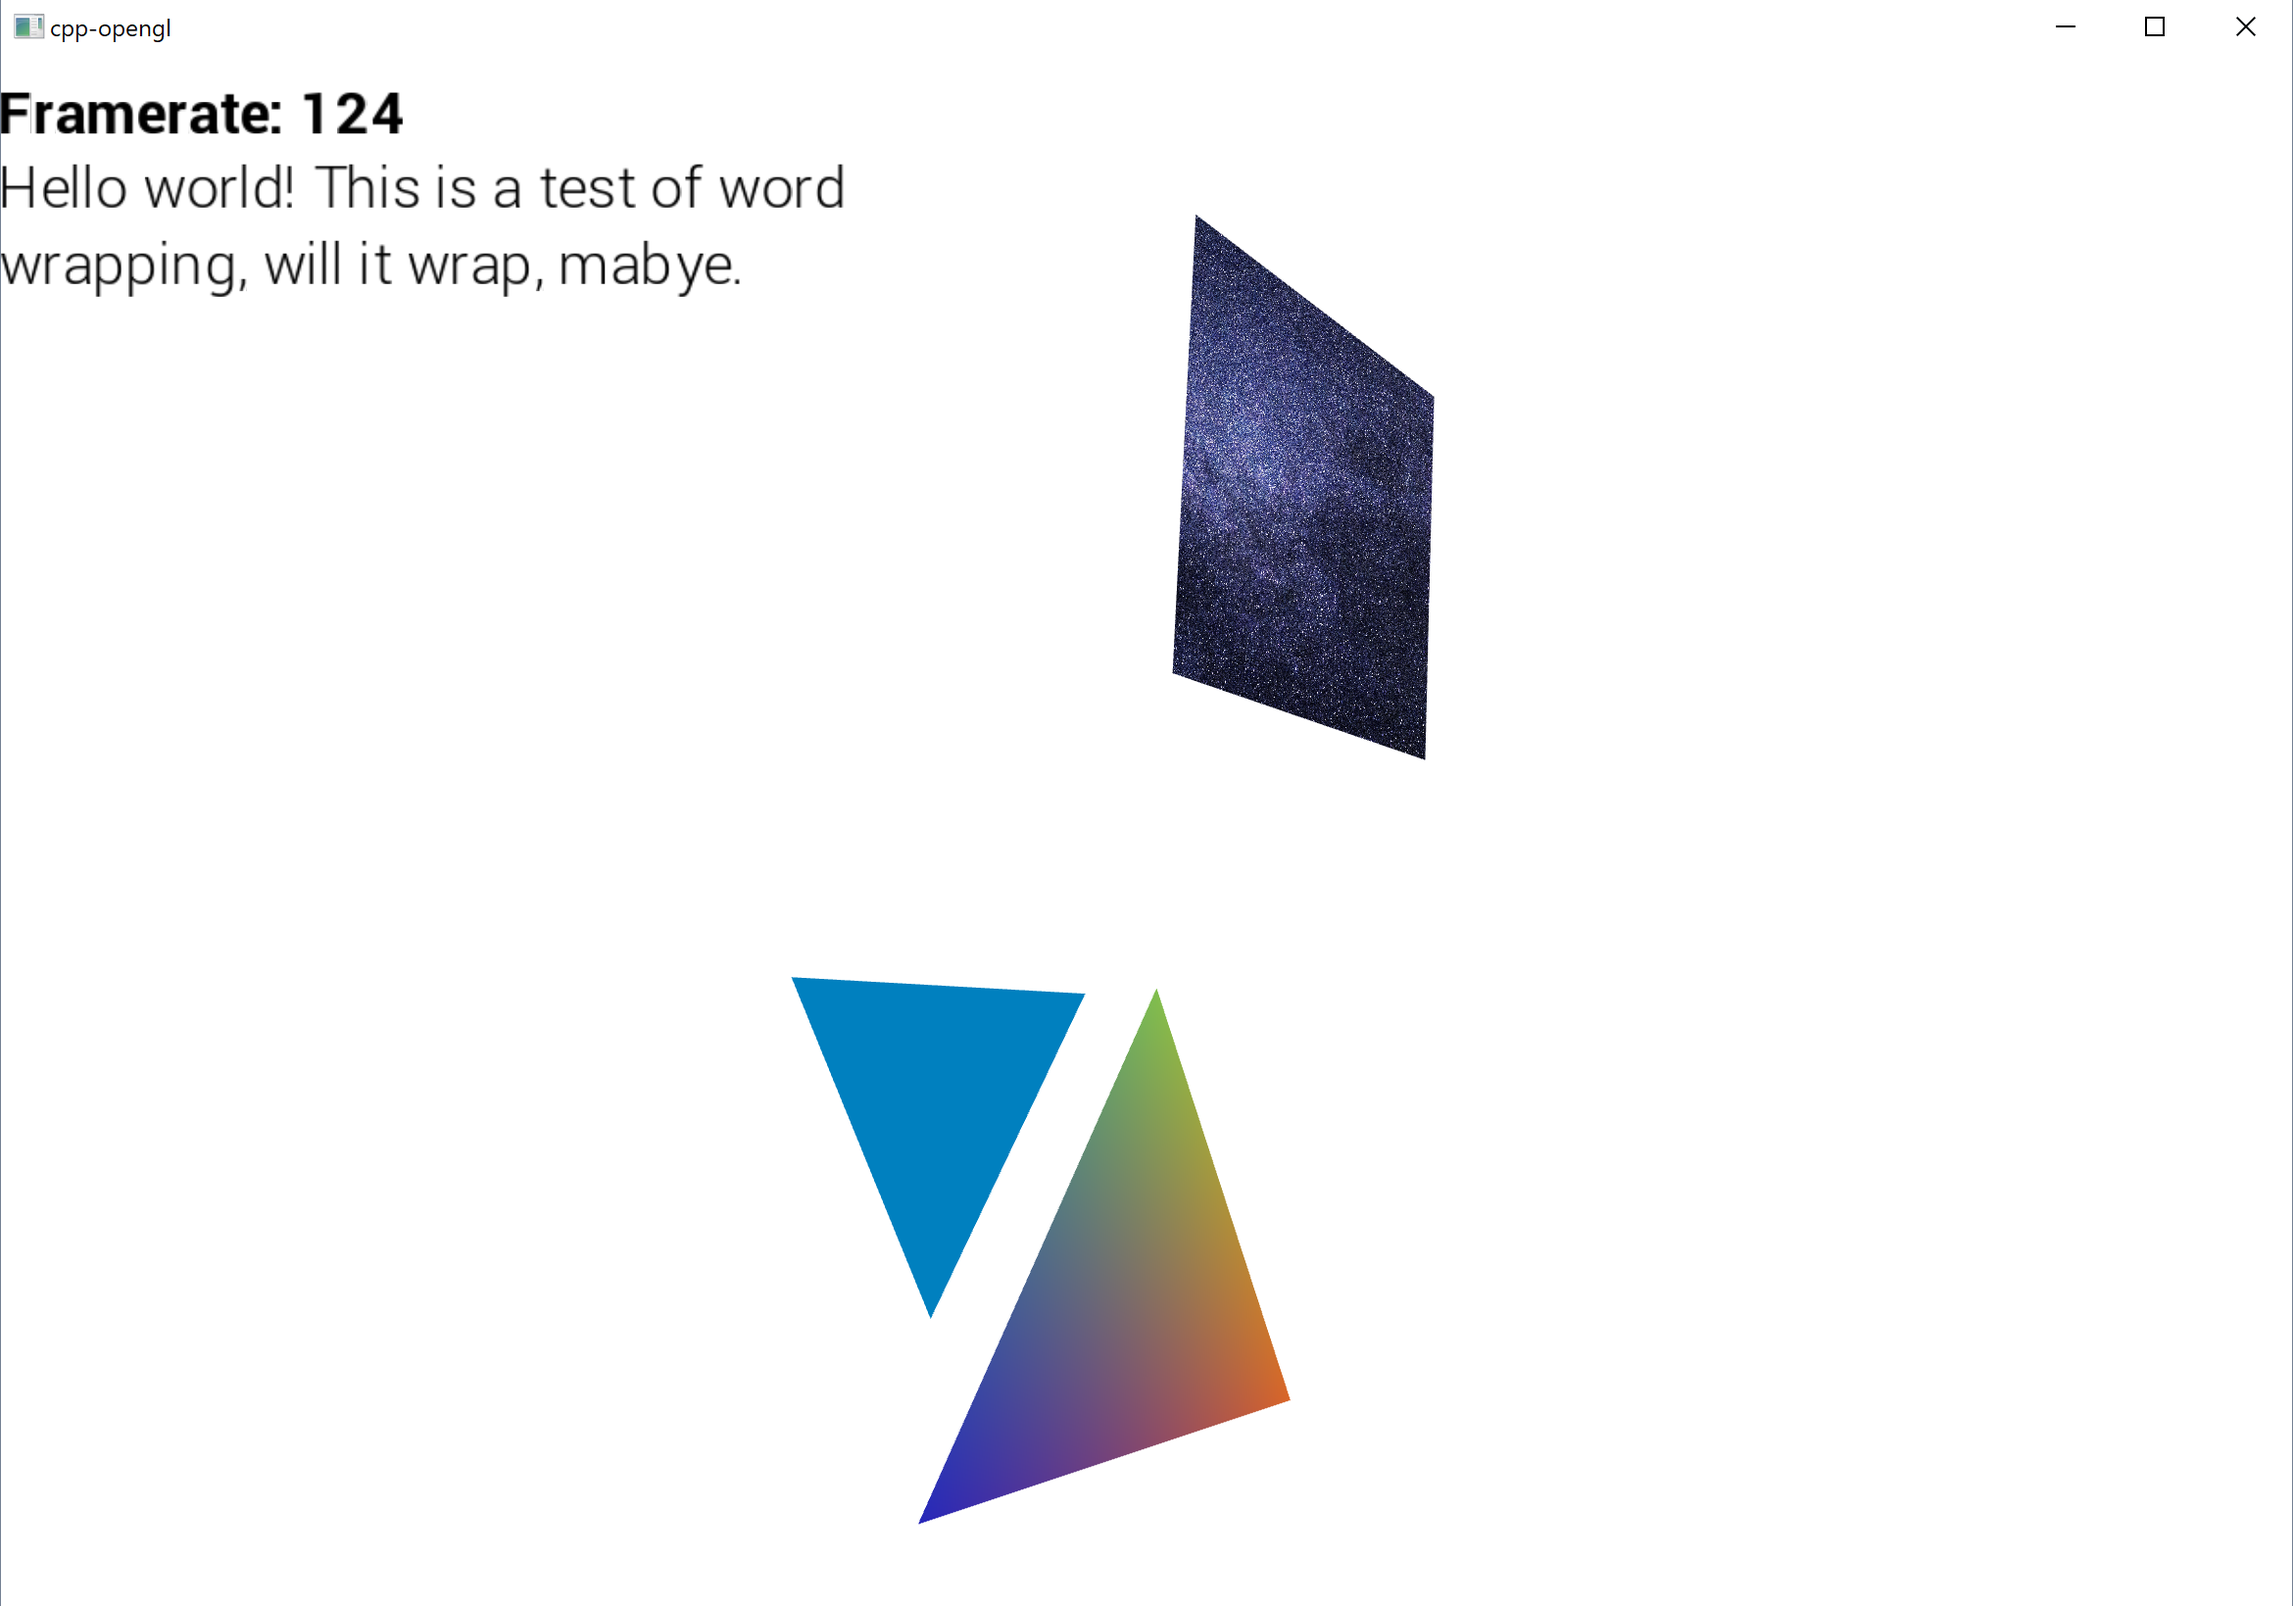
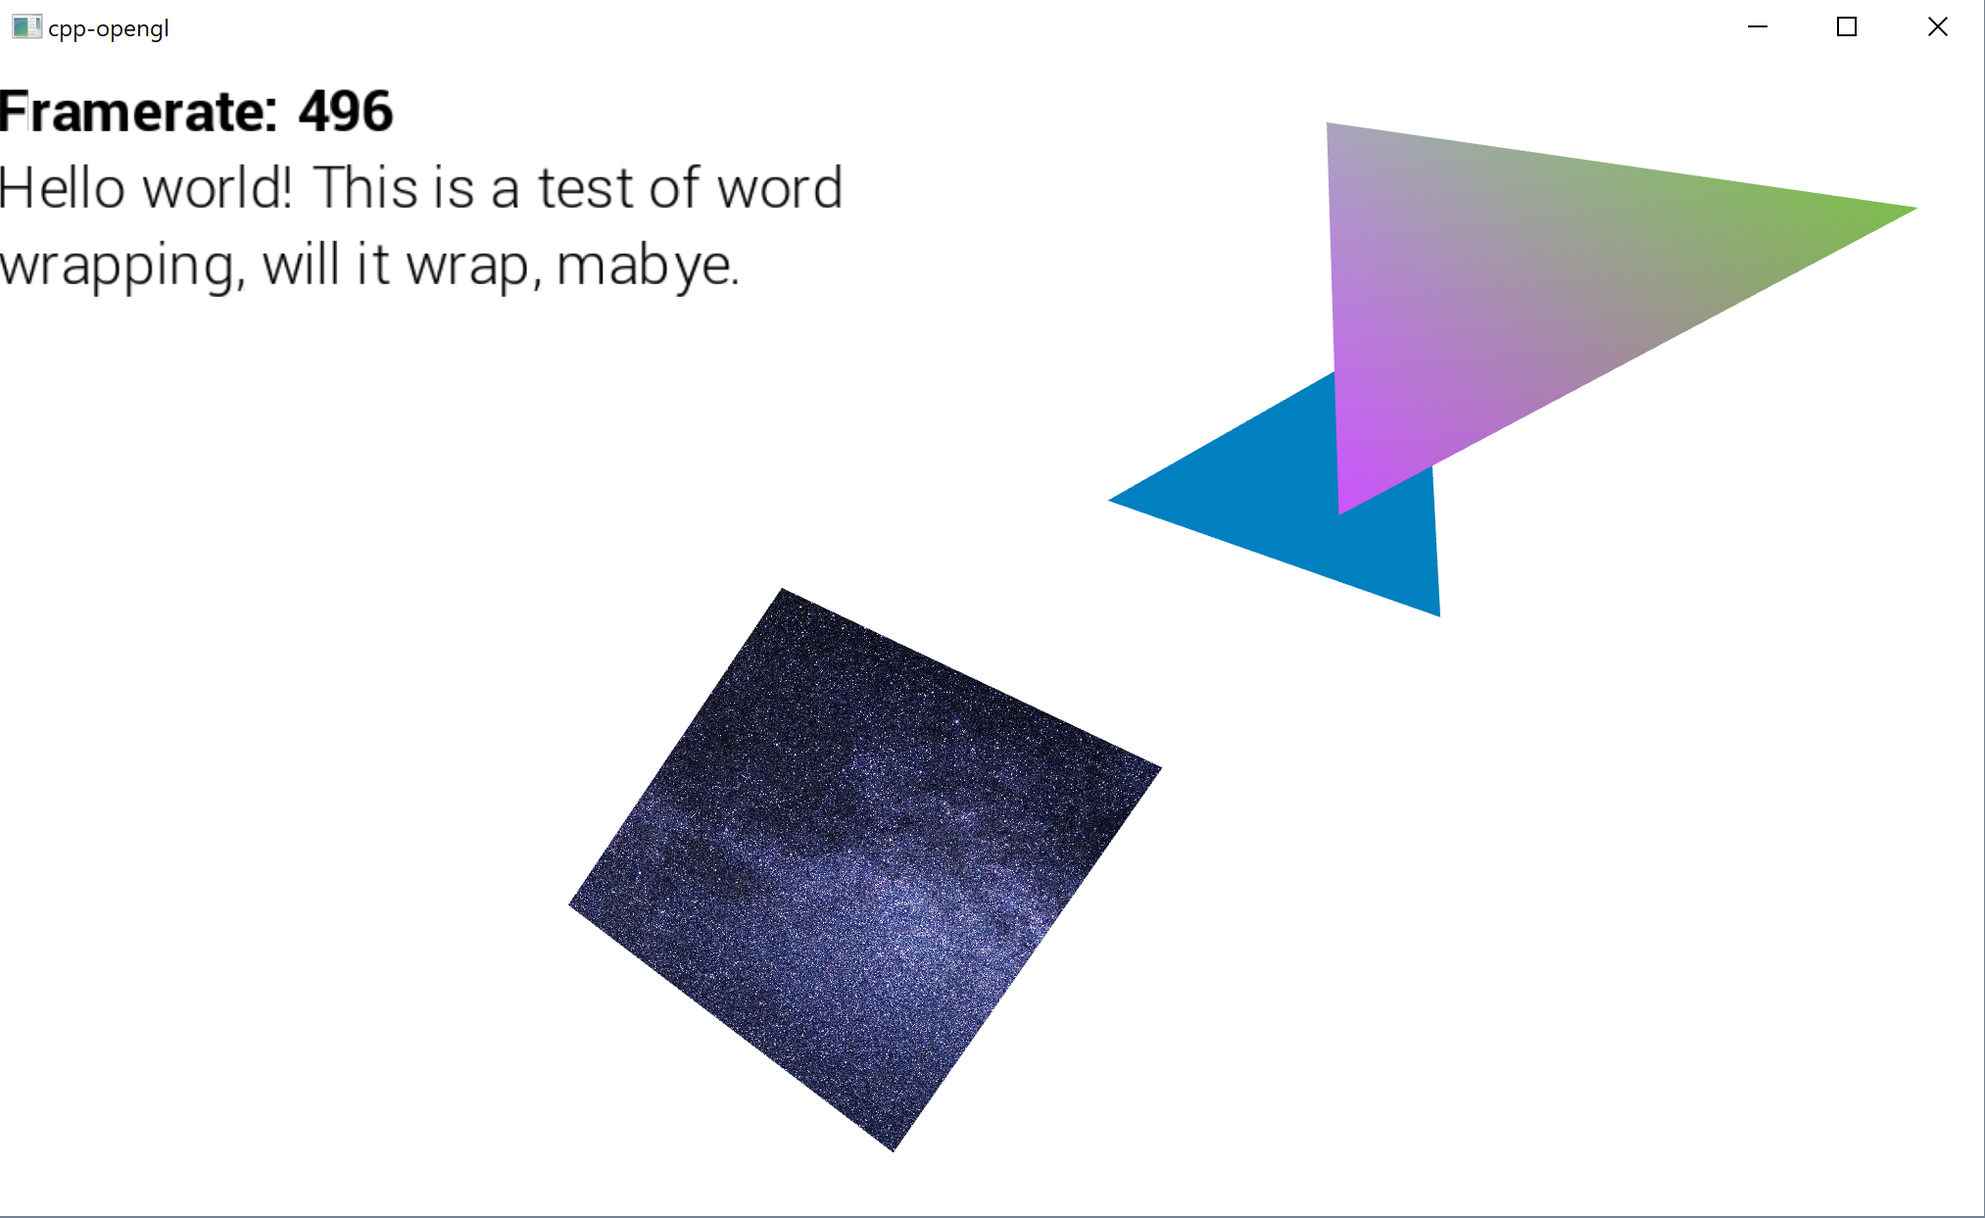
Calculate framerate using average over window

diff --git a/cpp-opengl.cpp b/cpp-opengl.cpp
@@ -18,6 +18,44 @@ glm::vec4 randomColor() {
 
 const float UI_TICK = 20.0f / 1000.0f;
 
+template<size_t N, typename Type>
+class Stack {
+public:
+	Stack() : Stack(Type{}) {
+
+	}
+	Stack(Type fill) {
+		for (int i = 0; i < N; i++) {
+			_stack[i] = fill;
+		}
+	}
+	virtual ~Stack() {
+
+	}
+
+	void push(Type value) {
+		for (int i = 0; i < N - 1; i++) {
+			_stack[i] = _stack[i + 1];
+		}
+		_stack[N - 1] = value;
+	}
+
+	Type sum() {
+		Type result = Type{};
+		for (int i = 0; i < N; i++) {
+			result += _stack[i];
+		}
+		return result;
+	}
+
+	size_t size() {
+		return N;
+	}
+
+private:
+	Type _stack[N];
+};
+
 int main(const int argc, const char* const argv[]) {
 	try {
 		if (!glfwInit()) {
@@ -120,17 +158,23 @@ int main(const int argc, const char* const argv[]) {
 		textAligner->id = "textAligner";
 		uiLayer->addLogicNode(textAligner);
 
-		int framerate = 0;
+		Stack<30, int> framerate;
+
 
 		while (!window->shouldClose()) {
 
 			glClear(GL_COLOR_BUFFER_BIT | GL_DEPTH_BUFFER_BIT);
 
 			app.render();
-			if (uiLayer->tick()) {
-				fpsText->update(std::string("Framerate: ") + std::to_string(framerate));
+			float period = mainLayer->getFrameDelay();
+			if (period != 0.0) {
+				int value = (int)(1 / mainLayer->getFrameDelay());
+				framerate.push(value);
 			}
-			framerate = (int)(1 / mainLayer->getFrameDelay());
+			
+			if (uiLayer->tick()) {
+				fpsText->update(std::string("Framerate: ") + std::to_string(static_cast<int>(framerate.sum() / framerate.size())));
+			}
 
 			app.update();
 		}
